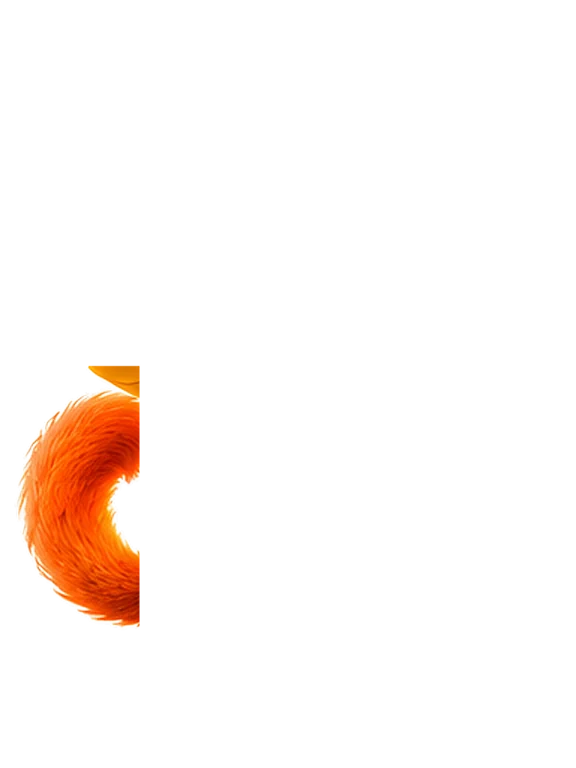
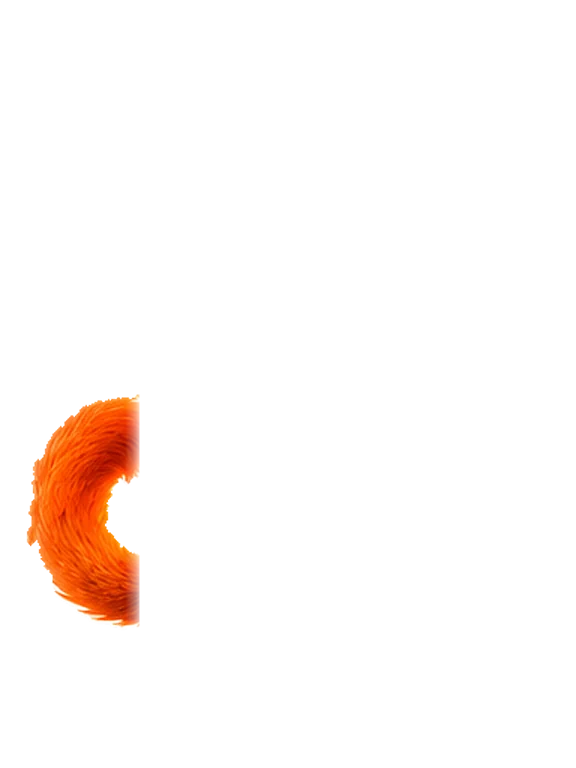
Mimo bem mais animado: dança, acena sem parar, abana a cauda, comemora com pulos; continua se mexendo com 'reduzir animações' ligado
Claude-Session: https://claude.ai/code/session_01EXv8GyjhQHJqUQCA6X8aFn

Changed region(s): [[0.0312, 0.4688, 0.25, 0.7812], [0.1875, 0.625, 0.25, 0.8125]]

diff --git a/styles/app.css b/styles/app.css
@@ -271,31 +271,51 @@ a.card:hover { border-color: var(--ink-3); }
 .hero-note .ic { color: #ff7a6a; margin-top: 3px; }
 .hero-note a { color: #fff; }
 .hero-mimo { position: relative; display: grid; justify-items: center; }
-/* Mimo vivo: camadas animadas (corpo, cabeça, mão, cauda) */
+/* Mimo vivo: camadas animadas (corpo, cabeça, mão, cauda) — dança, acena e comemora */
 .mimo-live { --lx: 0; --ly: 0; position: relative; display: block; width: min(320px, 68vw); aspect-ratio: 3 / 4; padding: 0; border: 0; background: none; cursor: pointer; -webkit-tap-highlight-color: transparent; }
-.ml-glow { position: absolute; inset: 14% 4% 4%; border-radius: 50%; background: radial-gradient(circle, rgba(255, 196, 70, .6), rgba(233, 120, 27, .22) 45%, transparent 70%); filter: blur(22px); animation: breathe 4.2s ease-in-out infinite; }
-.ml-rig { position: absolute; inset: 0; transform-origin: 50% 96%; animation: mlBreath 3.6s ease-in-out infinite; filter: drop-shadow(0 18px 26px rgba(0, 0, 0, .45)); }
+.ml-glow { position: absolute; inset: 14% 4% 4%; border-radius: 50%; background: radial-gradient(circle, rgba(255, 196, 70, .65), rgba(233, 120, 27, .25) 45%, transparent 70%); filter: blur(22px); animation: breathe 2.4s ease-in-out infinite; }
+.ml-shadow { position: absolute; left: 22%; right: 18%; bottom: 1.5%; height: 5%; border-radius: 50%; background: radial-gradient(closest-side, rgba(0, 0, 0, .45), transparent); animation: mlShadow 1.2s ease-in-out infinite; }
+.ml-rig { position: absolute; inset: 0; transform-origin: 50% 96%; animation: mlDance 2.4s ease-in-out infinite; filter: drop-shadow(0 14px 18px rgba(0, 0, 0, .35)); }
 .ml-rig > img, .ml-head, .ml-nod, .ml-nod img { position: absolute; inset: 0; width: 100%; height: 100%; }
-.ml-corpo { animation: mlSway 7.3s ease-in-out infinite; transform-origin: 50% 96%; }
-.ml-cauda { transform-origin: 24.7% 67.4%; animation: mlTail 2.9s ease-in-out infinite alternate; }
-.ml-head { transform-origin: 59.9% 45.3%; transform: rotate(calc(var(--lx) * 5deg)) translate(calc(var(--lx) * 1.2%), calc(var(--ly) * 1%)); }
-.ml-nod { animation: mlNod 5.3s ease-in-out infinite; transform-origin: 59.9% 45.3%; }
-.ml-mao { transform-origin: 16.1% 34.4%; animation: mlWave 5.4s ease-in-out infinite; }
-.ml-lid { position: absolute; width: 12.2%; height: 8.6%; border-radius: 50% 50% 50% 50% / 60% 60% 40% 40%; background: linear-gradient(#e8823a, #d8692a 70%, #b8521a); border-bottom: 2.5px solid #3a1806; box-shadow: 0 1px 0 rgba(0,0,0,.25); transform: scaleY(0); transform-origin: 50% 0; transition: transform .07s ease-in; }
+.ml-cauda { transform-origin: 24.7% 67.4%; animation: mlTail 1.2s ease-in-out infinite alternate; }
+.ml-head { transform-origin: 59.9% 45.3%; transform: rotate(calc(var(--lx) * 6deg)) translate(calc(var(--lx) * 1.5%), calc(var(--ly) * 1.2%)); }
+.ml-nod { animation: mlNod 2.4s ease-in-out infinite; transform-origin: 59.9% 45.3%; }
+.ml-mao { transform-origin: 16.1% 34.4%; animation: mlWave 3.6s ease-in-out infinite; }
+.ml-lid { position: absolute; width: 12.2%; height: 8.6%; border-radius: 50% 50% 50% 50% / 60% 60% 40% 40%; background: linear-gradient(#e8823a, #d8692a 70%, #b8521a); border-bottom: 2.5px solid #3a1806; transform: scaleY(0); transform-origin: 50% 0; transition: transform .06s ease-in; }
 .ml-lid.l { left: 51.6%; top: 20%; rotate: -10deg; }
 .ml-lid.r { left: 69.4%; top: 25%; rotate: -12deg; }
 .mimo-live.blink .ml-lid { transform: scaleY(1); }
-.mimo-live.happy .ml-mao { animation: mlWaveFast 1.1s ease-in-out infinite; }
-.mimo-live.happy .ml-cauda { animation-duration: 1.2s; }
-.mimo-live.hop .ml-rig { animation: mlHop .65s cubic-bezier(.3, .6, .4, 1), mlBreath 3.6s ease-in-out .65s infinite; }
+.ml-sparks { position: absolute; inset: 0; pointer-events: none; }
+.ml-sparks i { position: absolute; bottom: 30%; width: 7px; height: 7px; border-radius: 50%; background: radial-gradient(circle, #fff6c8, #ffb02e 55%, transparent 70%); opacity: 0; animation: mlSpark 3.2s linear infinite; }
+.ml-sparks i:nth-child(1) { left: 12%; animation-delay: 0s; } .ml-sparks i:nth-child(2) { left: 30%; animation-delay: .8s; } .ml-sparks i:nth-child(3) { left: 84%; animation-delay: 1.5s; }
+.ml-sparks i:nth-child(4) { left: 70%; animation-delay: 2.2s; } .ml-sparks i:nth-child(5) { left: 48%; animation-delay: 2.8s; } .ml-sparks i:nth-child(6) { left: 92%; animation-delay: .4s; }
+.ml-heart { position: absolute; left: 62%; top: 8%; font-size: 26px; opacity: 0; pointer-events: none; }
+/* passar o mouse: fica empolgado */
+.mimo-live.happy .ml-rig { animation-duration: 1.2s; }
+.mimo-live.happy .ml-shadow { animation-duration: .6s; }
+.mimo-live.happy .ml-mao { animation: mlWaveFast .5s ease-in-out infinite; }
+.mimo-live.happy .ml-cauda { animation-duration: .45s; }
+/* comemoração (de tempos em tempos e ao clicar) */
+.mimo-live.party .ml-rig { animation: mlJump .9s cubic-bezier(.3, .7, .4, 1); }
+.mimo-live.party .ml-shadow { animation: mlShadowJump .9s cubic-bezier(.3, .7, .4, 1); }
+.mimo-live.party .ml-mao { animation: mlWaveFast .3s ease-in-out 3; }
+.mimo-live.party .ml-heart { animation: mlHeart 1.2s ease-out; }
 .mimo-live:focus-visible { outline-offset: 6px; border-radius: 20px; }
-@keyframes mlBreath { 0%, 100% { transform: scale(1, 1); } 50% { transform: scale(1.008, 1.018) translateY(-.4%); } }
-@keyframes mlSway { 0%, 100% { transform: rotate(0); } 50% { transform: rotate(-.8deg); } }
-@keyframes mlTail { from { transform: rotate(-3deg); } to { transform: rotate(4.5deg); } }
-@keyframes mlNod { 0%, 100% { transform: rotate(0); } 30% { transform: rotate(-1.6deg); } 65% { transform: rotate(1.2deg); } }
-@keyframes mlWave { 0%, 48%, 100% { transform: rotate(0); } 56% { transform: rotate(-13deg); } 64% { transform: rotate(7deg); } 72% { transform: rotate(-11deg); } 80% { transform: rotate(5deg); } 88% { transform: rotate(-2deg); } }
-@keyframes mlWaveFast { 0%, 100% { transform: rotate(5deg); } 50% { transform: rotate(-14deg); } }
-@keyframes mlHop { 0% { transform: translateY(0) scale(1, 1); } 25% { transform: translateY(0) scale(1.04, .94); } 55% { transform: translateY(-9%) scale(.97, 1.04); } 85% { transform: translateY(0) scale(1.03, .97); } 100% { transform: translateY(0) scale(1, 1); } }
+@keyframes mlDance {
+  0%, 100% { transform: translateY(0) rotate(-2.2deg) scale(1.025, .975); }
+  25% { transform: translateY(-4.5%) rotate(0) scale(.985, 1.02); }
+  50% { transform: translateY(0) rotate(2.2deg) scale(1.025, .975); }
+  75% { transform: translateY(-4.5%) rotate(0) scale(.985, 1.02); }
+}
+@keyframes mlShadow { 0%, 100% { transform: scale(1); opacity: 1; } 50% { transform: scale(.78); opacity: .6; } }
+@keyframes mlTail { from { transform: rotate(-9deg); } to { transform: rotate(9deg); } }
+@keyframes mlNod { 0%, 100% { transform: rotate(3.5deg) translateY(.6%); } 25%, 75% { transform: rotate(0) translateY(-.4%); } 50% { transform: rotate(-3.5deg) translateY(.6%); } }
+@keyframes mlWave { 0%, 100% { transform: rotate(4deg); } 10% { transform: rotate(-24deg); } 20% { transform: rotate(8deg); } 30% { transform: rotate(-24deg); } 40% { transform: rotate(8deg); } 50% { transform: rotate(-22deg); } 62% { transform: rotate(4deg); } }
+@keyframes mlWaveFast { 0%, 100% { transform: rotate(8deg); } 50% { transform: rotate(-26deg); } }
+@keyframes mlJump { 0% { transform: translateY(0) scale(1, 1); } 18% { transform: translateY(0) scale(1.08, .88); } 48% { transform: translateY(-16%) scale(.94, 1.08) rotate(-4deg); } 72% { transform: translateY(0) scale(1.07, .91); } 86% { transform: translateY(-2%) scale(.99, 1.01); } 100% { transform: translateY(0) scale(1, 1); } }
+@keyframes mlShadowJump { 0%, 100% { transform: scale(1); } 48% { transform: scale(.45); opacity: .35; } 72% { transform: scale(1.1); } }
+@keyframes mlSpark { 0% { transform: translateY(0) scale(.6); opacity: 0; } 15% { opacity: 1; } 100% { transform: translateY(-260%) translateX(12px) scale(1.1); opacity: 0; } }
+@keyframes mlHeart { 0% { transform: translateY(10px) scale(.4); opacity: 0; } 25% { transform: translateY(0) scale(1.15); opacity: 1; } 100% { transform: translateY(-46px) scale(.9); opacity: 0; } }
 .mimo-say.swap { opacity: .0; transform: translateY(4px); }
 .mimo-say { transition: opacity .25s, transform .25s; }
 @keyframes breathe { 50% { transform: scale(1.08); opacity: .8; } }
@@ -551,7 +571,7 @@ main.bleed + .foot { margin-top: 0; }
 @media (max-width: 860px) { .auth-wrap { grid-template-columns: 1fr; } .auth-art { display: none; } }
 
 @media (prefers-reduced-motion: reduce) {
-  *, *::before, *::after { animation: none !important; transition: none !important; }
+  :where(*:not(.mimo-live, .mimo-live *, .brand-mimo, .brand-mimo *, .mimo-fab, .mimo-say)), :where(*:not(.mimo-live, .mimo-live *, .brand-mimo, .brand-mimo *, .mimo-fab, .mimo-say))::before, :where(*:not(.mimo-live, .mimo-live *, .brand-mimo, .brand-mimo *, .mimo-fab, .mimo-say))::after { animation: none !important; transition: none !important; }
 }
 
 /* ---------- Mimo assistente ---------- */

diff --git a/app/pages/home.js b/app/pages/home.js
@@ -59,6 +59,9 @@ export default async function home({ el }) {
         <button class="mimo-say" type="button" data-mimo="" id="mimo-say"><span id="mimo-say-txt">Oi! Eu sou o Mimo. Posso te ajudar a avisar um foco ou tirar dúvidas sobre prevenção.</span> <b>Fale comigo</b></button>
         <button class="mimo-live" type="button" id="mimo-live" aria-label="Conversar com o Mimo">
           <span class="ml-glow" aria-hidden="true"></span>
+          <span class="ml-shadow" aria-hidden="true"></span>
+          <span class="ml-sparks" aria-hidden="true"><i></i><i></i><i></i><i></i><i></i><i></i></span>
+          <span class="ml-heart" aria-hidden="true">🧡</span>
           <span class="ml-rig" aria-hidden="true">
             <img class="ml-cauda" src="/assets/mimo/heroi-cauda.webp" alt="" width="576" height="768">
             <img class="ml-corpo" src="/assets/mimo/heroi-corpo.webp" alt="" width="576" height="768">
@@ -178,7 +181,7 @@ function animateMimo(root) {
   const live = root.querySelector("#mimo-live");
   const say = root.querySelector("#mimo-say-txt");
   if (!live) return () => {};
-  const reduce = matchMedia("(prefers-reduced-motion: reduce)").matches;
+  const reduce = false; // o Mimo se mexe sempre (pedido do dono do site)
   let raf = 0, tx = 0, ty = 0, cx = 0, cy = 0, i = 0;
   const onMove = (e) => {
     const r = live.getBoundingClientRect();
@@ -201,8 +204,15 @@ function animateMimo(root) {
     say.parentElement.classList.add("swap");
     setTimeout(() => { say.textContent = FALAS[i]; say.parentElement.classList.remove("swap"); }, 250);
   }, 8000);
+  const party = () => {
+    live.classList.remove("party"); void live.offsetWidth; live.classList.add("party");
+    setTimeout(() => live.classList.remove("party"), 1250);
+  };
+  let partyT = 0;
+  const scheduleParty = () => { partyT = setTimeout(() => { if (!document.hidden) party(); scheduleParty(); }, 7000 + Math.random() * 5000); };
+  scheduleParty();
   const poke = () => {
-    live.classList.remove("hop"); void live.offsetWidth; live.classList.add("hop");
+    party();
     blink();
     setTimeout(() => root.querySelector("#mimo-say")?.click(), 380); // abre a conversa
   };
@@ -214,5 +224,5 @@ function animateMimo(root) {
     raf = requestAnimationFrame(loop);
     scheduleBlink();
   }
-  return () => { cancelAnimationFrame(raf); clearTimeout(blinkT); clearInterval(talk); removeEventListener("pointermove", onMove); };
+  return () => { cancelAnimationFrame(raf); clearTimeout(blinkT); clearTimeout(partyT); clearInterval(talk); removeEventListener("pointermove", onMove); };
 }
